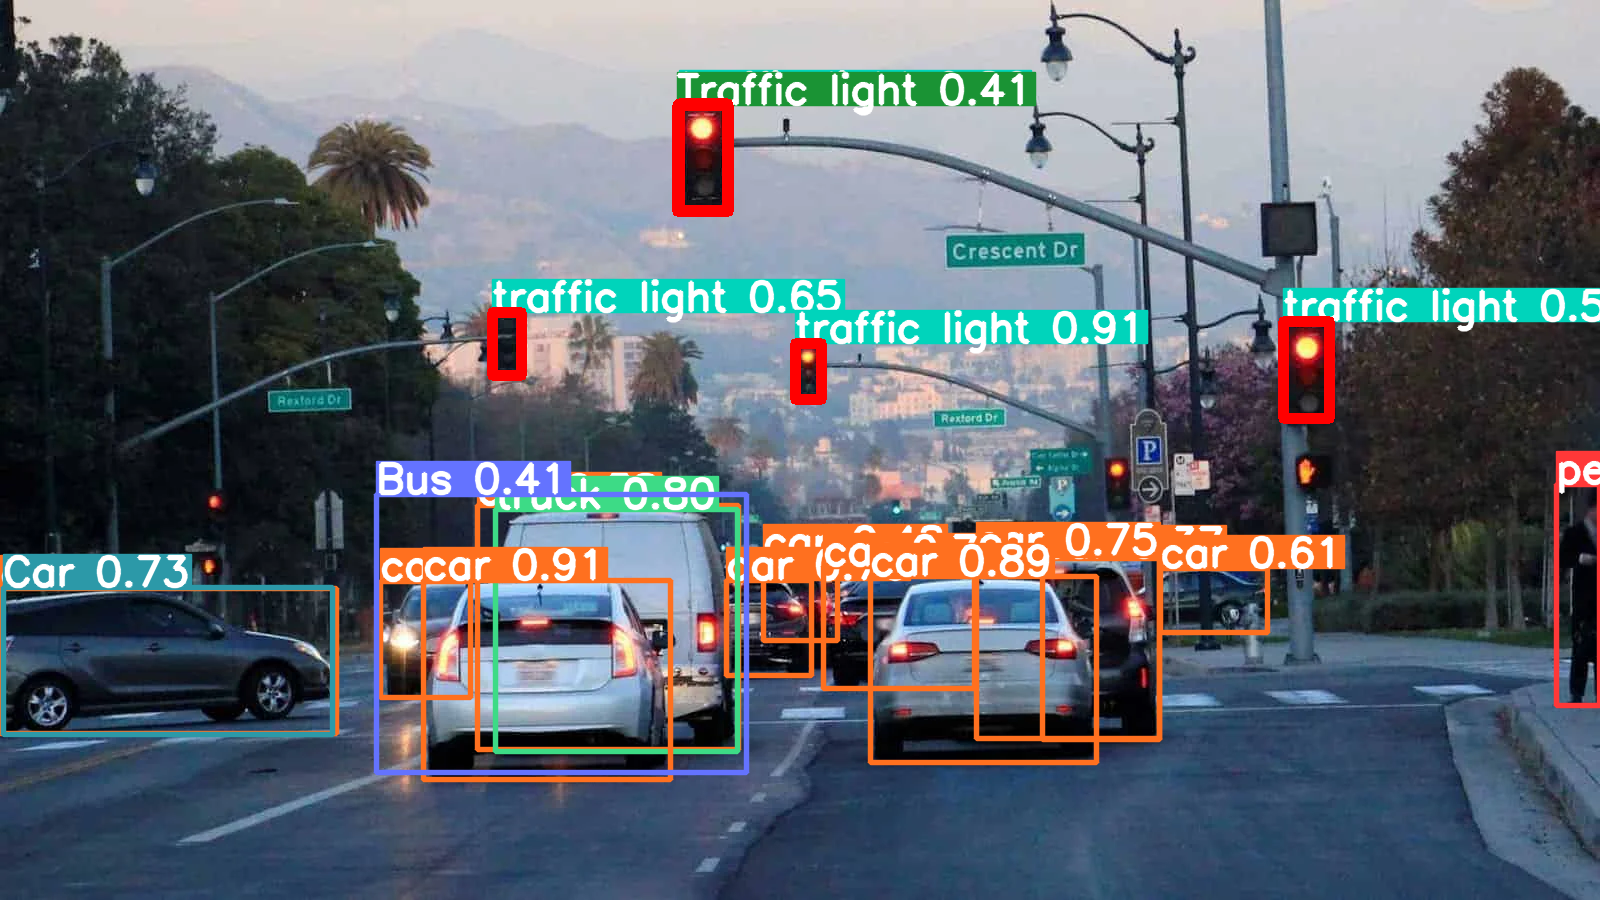
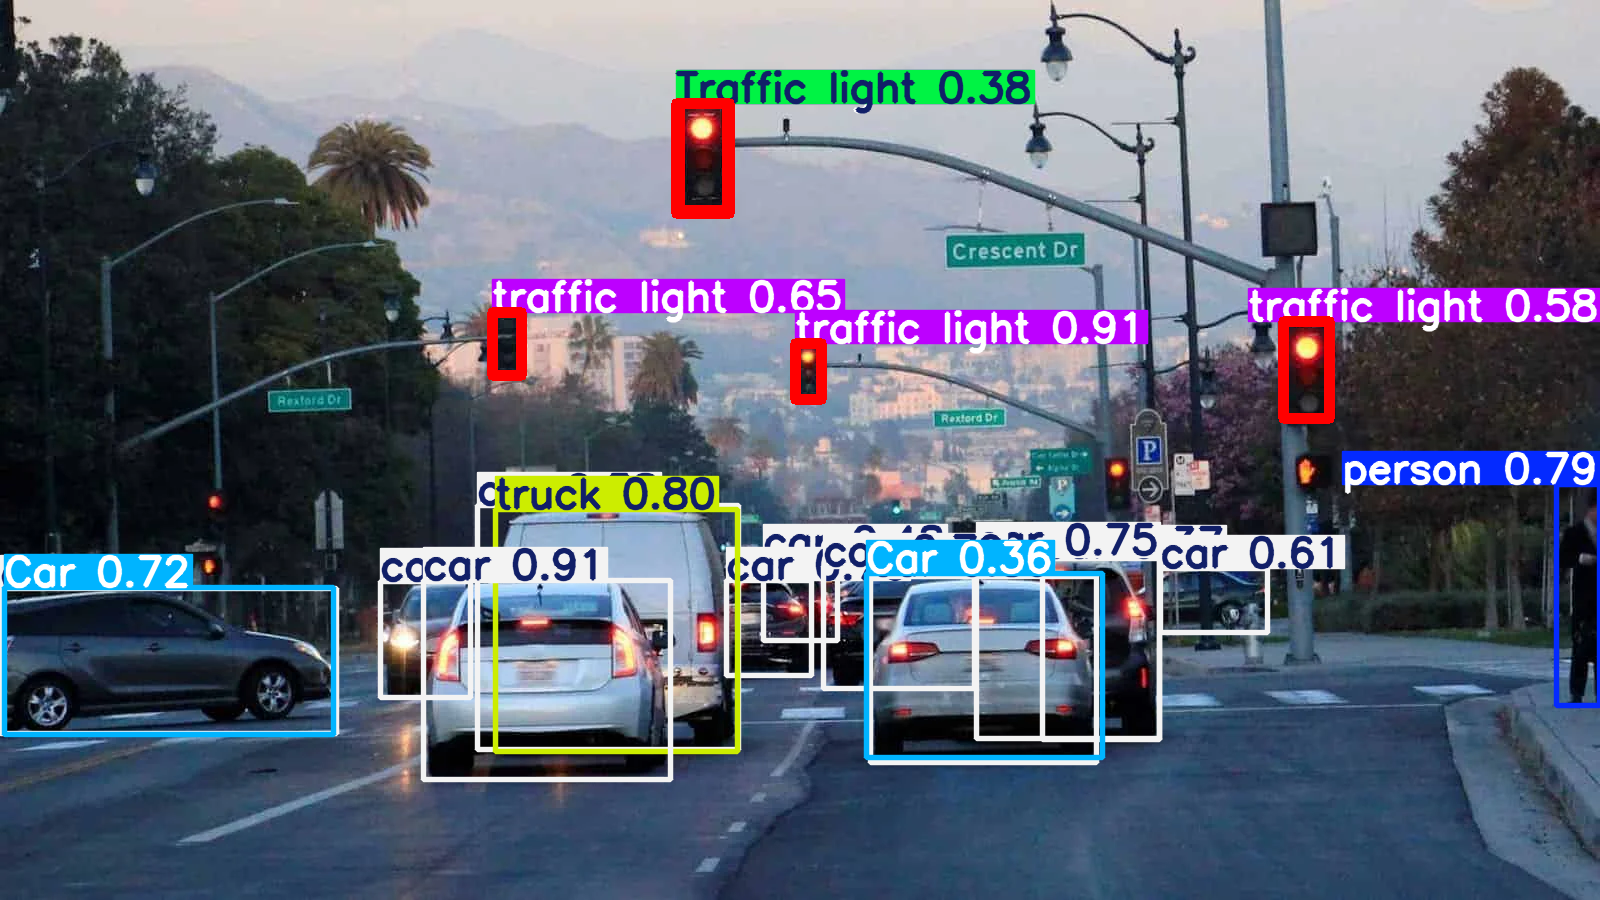
Classifying traffic lights based on intensity instead of color to improve robustness

diff --git a/traffic_light_recognition/traffic_light_recognition.py b/traffic_light_recognition/traffic_light_recognition.py
@@ -8,14 +8,13 @@ coco = YOLO('yolov8s.pt')
 oi7 = YOLO('yolov8s-oiv7.pt')
 
 # Open the image
-image = cv2.imread("red_traffic.jpeg.webp")
+image = cv2.imread("traffic_lights.jpg")
 
 # Colors
 red = (0, 0, 255)
 yellow = (0, 255, 255)
 green = (0, 255, 0)
 colors = [red, yellow, green]
-gray = (128, 128, 128)
 
 # Run inference on the image to get boxes
 coco_results = coco.predict(image, conf=0.33, classes=[0,1,2,3,5,7,9,11,12])
@@ -28,15 +27,9 @@ output_image = oi7_results[0].plot()
 
 boxes = coco_results[0].boxes.xyxy.tolist() + oi7_results[0].boxes.xyxy.tolist()
 classifications = coco_results[0].boxes.cls.tolist() + oi7_results[0].boxes.cls.tolist()
-
-def normalize(color):
-    return (color - np.min(color)) / (np.max(color) - np.min(color)) * 255
-
-def distance(color1, color2):
-    return np.linalg.norm(normalize(color1) - normalize(color2))
     
-def argmin(arr):
-    return min(range(len(arr)), key=lambda x : arr[x])
+def argmax(arr):
+    return max(range(len(arr)), key=lambda x : arr[x])
 
 # Determine the color of the traffic lights
 for i in range(len(boxes)):
@@ -46,24 +39,17 @@ for i in range(len(boxes)):
     if classification != 9 and classification != 548: # skip if not traffic light
         continue
     
-    # Select region of interest
+    # Select regions of interest
     x1, y1, x2, y2 = int(box[0]), int(box[1]), int(box[2]), int(box[3])
-    traffic_light = image[y1:y2,x1:x2]
+    x_padding = (x2 - x1) // 8
+    y_padding = (y2 - y1) // 8
+    offset = (y2 - y1) / 3
+    traffic_lights = [image[y1+y_padding:int(y1-y_padding+offset),x1+x_padding:x2-x_padding], image[int(y1+y_padding+offset):int(y1-y_padding+2*offset),x1+x_padding:x2-x_padding], image[int(y1+y_padding+2*offset):y2-y_padding,x1+x_padding:x2-x_padding]]
     
-    # Flatten
-    width, height, _ = traffic_light.shape
-    flattened_traffic_light = traffic_light.reshape((width * height, 3))
-    
-    # Filter dimmest pixels
-    average_b, average_g, average_r = np.mean(flattened_traffic_light, axis=0)
-    filtered_traffic_light = flattened_traffic_light[(flattened_traffic_light[:,0] > average_b) | (flattened_traffic_light[:,1] > average_g) | (flattened_traffic_light[:,2] > average_r)]
-    average_color = np.mean(filtered_traffic_light, axis=0)
-    
-    # Classify color
-    color_distances = [distance(average_color, colors[0]), distance(average_color, colors[1]), distance(average_color, colors[2])]
-    closest_color = colors[argmin(color_distances)]
+    intensities = [np.average(traffic_light) for traffic_light in traffic_lights]
+    closest_color = colors[argmax(intensities)]
 
     output_image = cv2.rectangle(output_image, (x1,y1), (x2,y2), closest_color, 10)
 
 # Annotate and save the image
-cv2.imwrite("red_traffic_inference.png", output_image)
+cv2.imwrite("traffic_lights_inference.png", output_image)
